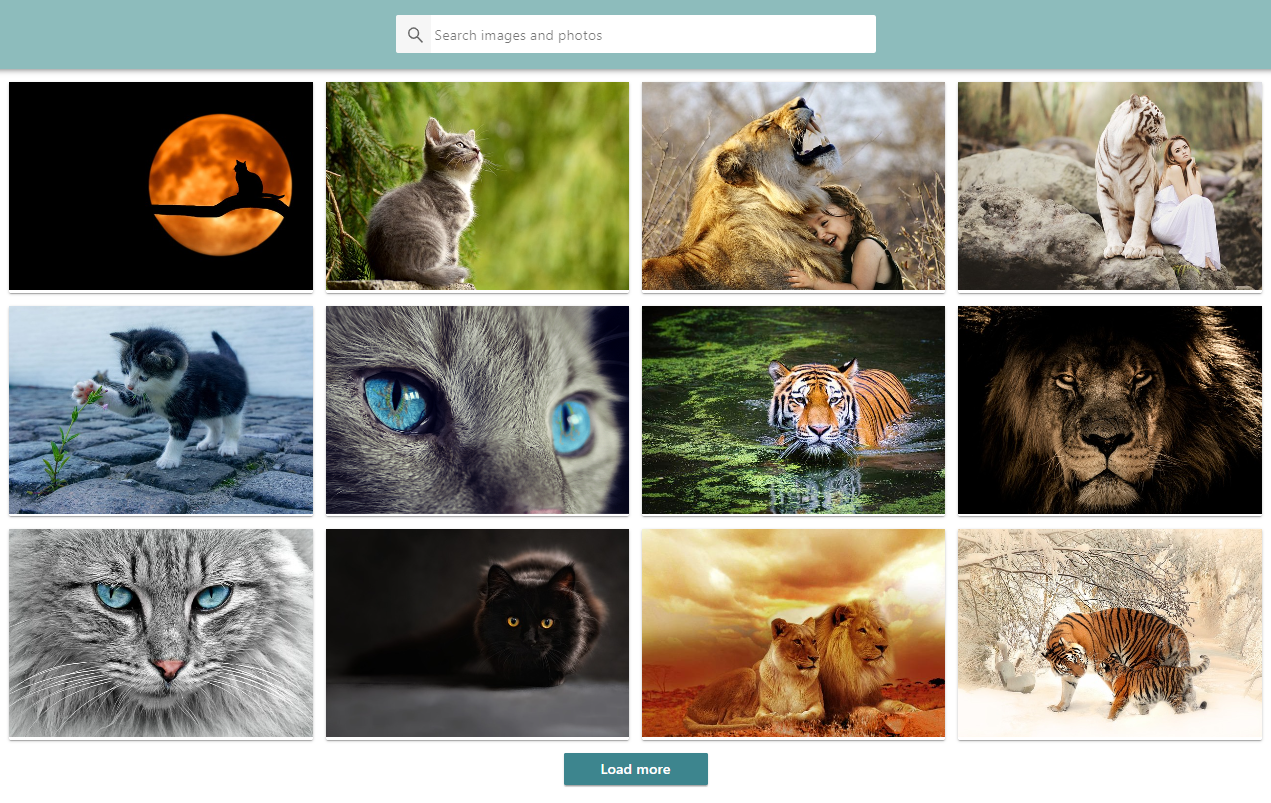
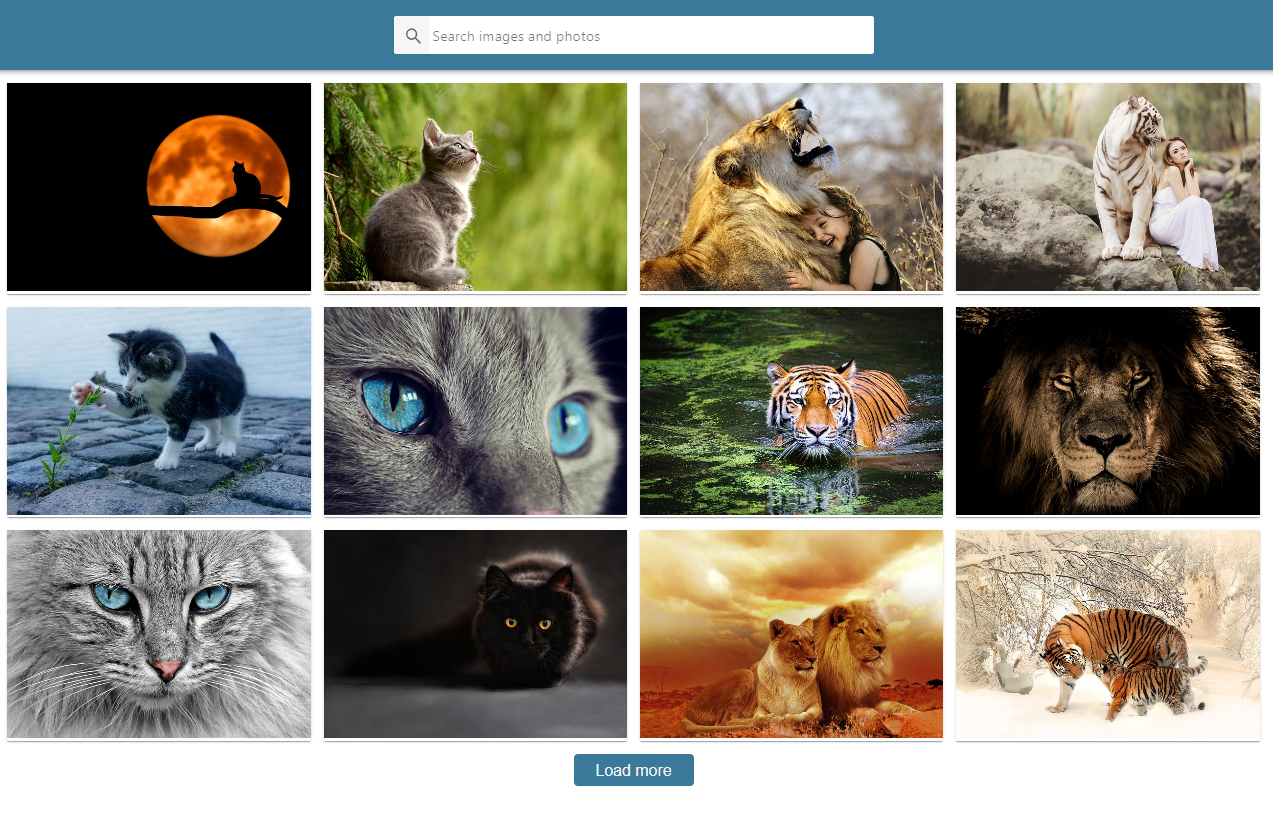
add styles

diff --git a/src/components/Searchbar/Searchbar.styled.js b/src/components/Searchbar/Searchbar.styled.js
@@ -1,0 +1,70 @@
+import styled from '@emotion/styled';
+import { Form, Field } from 'formik';
+
+export const SearchbarHeader = styled.header`
+  top: 0;
+  left: 0;
+  position: sticky;
+  z-index: 1100;
+  display: flex;
+  justify-content: center;
+  align-items: center;
+  min-height: 64px;
+  padding-right: 24px;
+  padding-left: 24px;
+  padding-top: 12px;
+  padding-bottom: 12px;
+  color: #fff;
+  background-color: #3a7999;
+  box-shadow: 0px 2px 4px -1px rgba(0, 0, 0, 0.2),
+    0px 4px 5px 0px rgba(0, 0, 0, 0.14), 0px 1px 10px 0px rgba(0, 0, 0, 0.12);
+`;
+
+export const SearchForm = styled(Form)`
+  display: flex;
+  align-items: center;
+  width: 100%;
+  max-width: 600px;
+  background-color: #fff;
+  border-radius: 3px;
+  overflow: hidden;
+`;
+
+export const SubmitButton = styled.button`
+  display: inline-block;
+  width: 48px;
+  height: 48px;
+  border: 0;
+  opacity: 0.6;
+  transition: opacity 250ms cubic-bezier(0.4, 0, 0.2, 1);
+  cursor: pointer;
+  outline: none;
+  position: relative;
+`;
+
+export const SubmitLabel = styled.label`
+  position: absolute;
+  width: 50px;
+  height: 50px;
+  top: 13px;
+  left: 0;
+  font-size: 24px;
+  padding: 0;
+  border: 0;
+`;
+
+export const Input = styled(Field)`
+  display: inline-block;
+  width: 100%;
+  font: inherit;
+  font-size: 20px;
+  border: none;
+  outline: none;
+  padding-left: 4px;
+  padding-right: 4px;
+
+  &::placeholder {
+    font: inherit;
+    font-size: 18px;
+  }
+`;

diff --git a/src/components/Button/Button.styled.js b/src/components/Button/Button.styled.js
@@ -1,6 +1,28 @@
 import styled from '@emotion/styled';
 
 export const OnLoadMoreButton = styled.button`
+  display: block;
+  width: 150px;
+  height: 40px;
+
+  border: none;
+  background: #3a7999;
+  color: #f2f2f2;
+  padding: 10px 20px;
+  font-size: 20px;
+  border-radius: 5px;
+  cursor: pointer;
+  transition: all 500ms ease;
+
+  &:hover,
+  &:focus {
+    background: rgba(0, 0, 0, 0);
+    color: #3a7999;
+    box-shadow: inset 0 0 0 3px #3a7999;
+    transform: scale(1.05);
+  }
+`;
+/* export const OnLoadMoreButton = styled.button`
     padding: 8px 16px;
     border-radius: 2px;
     background-color: #3d858e;
@@ -22,10 +44,10 @@ export const OnLoadMoreButton = styled.button`
     &:hover,
     &:focus {
         background-color: #1bcde4;
-`;
+`; */
 
 export const ButtonWrapp = styled.div`
-    display: flex;
-    justify-content: center;
-    margin-bottom: 12px;
-    `;
+  display: flex;
+  justify-content: center;
+  margin-bottom: 12px;
+`;
